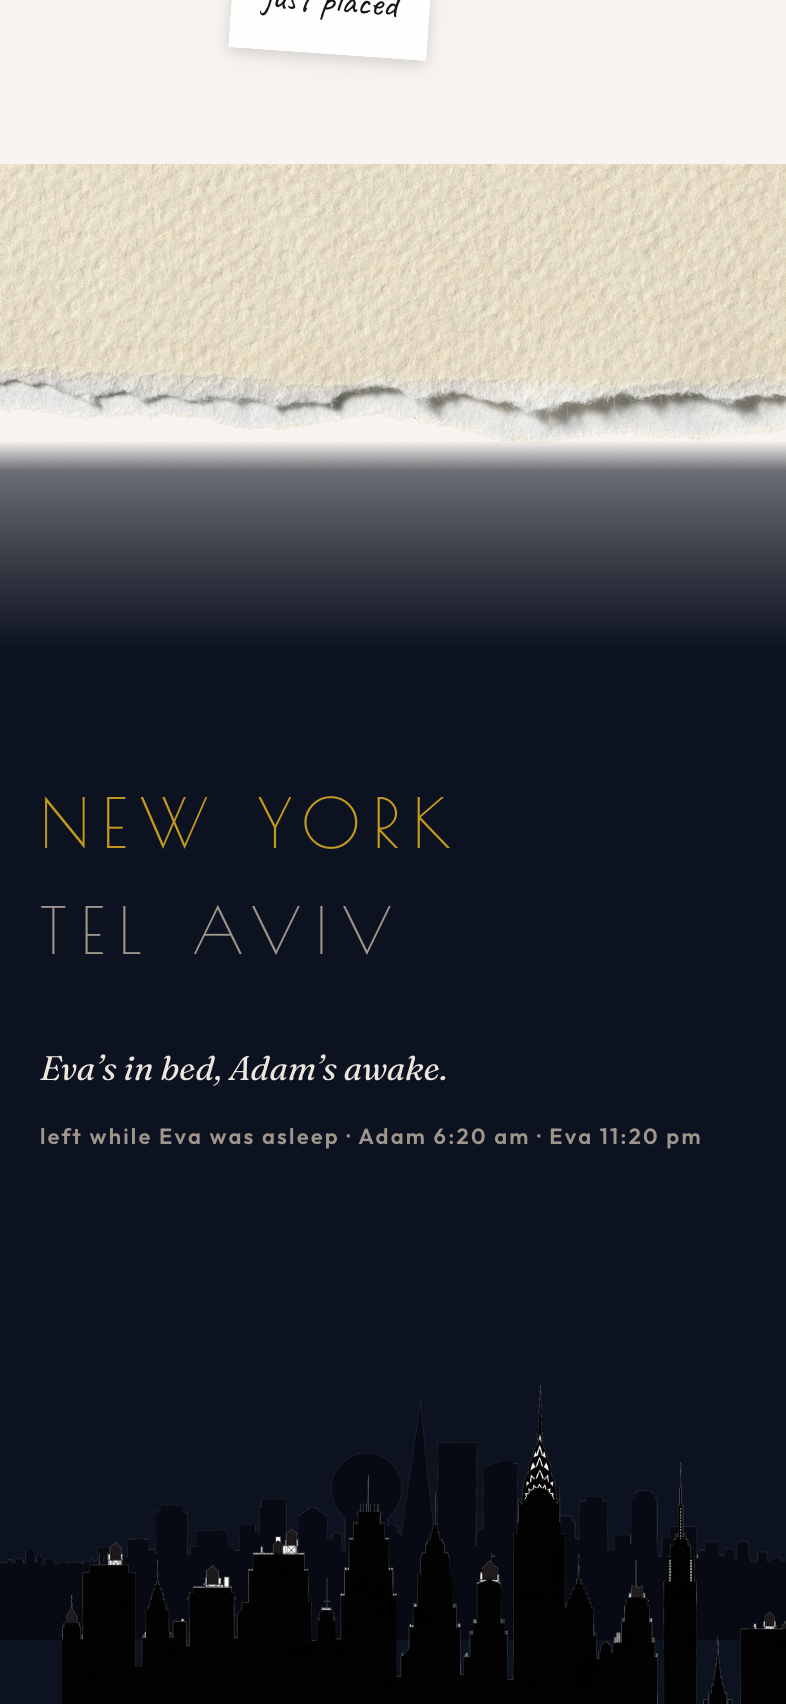
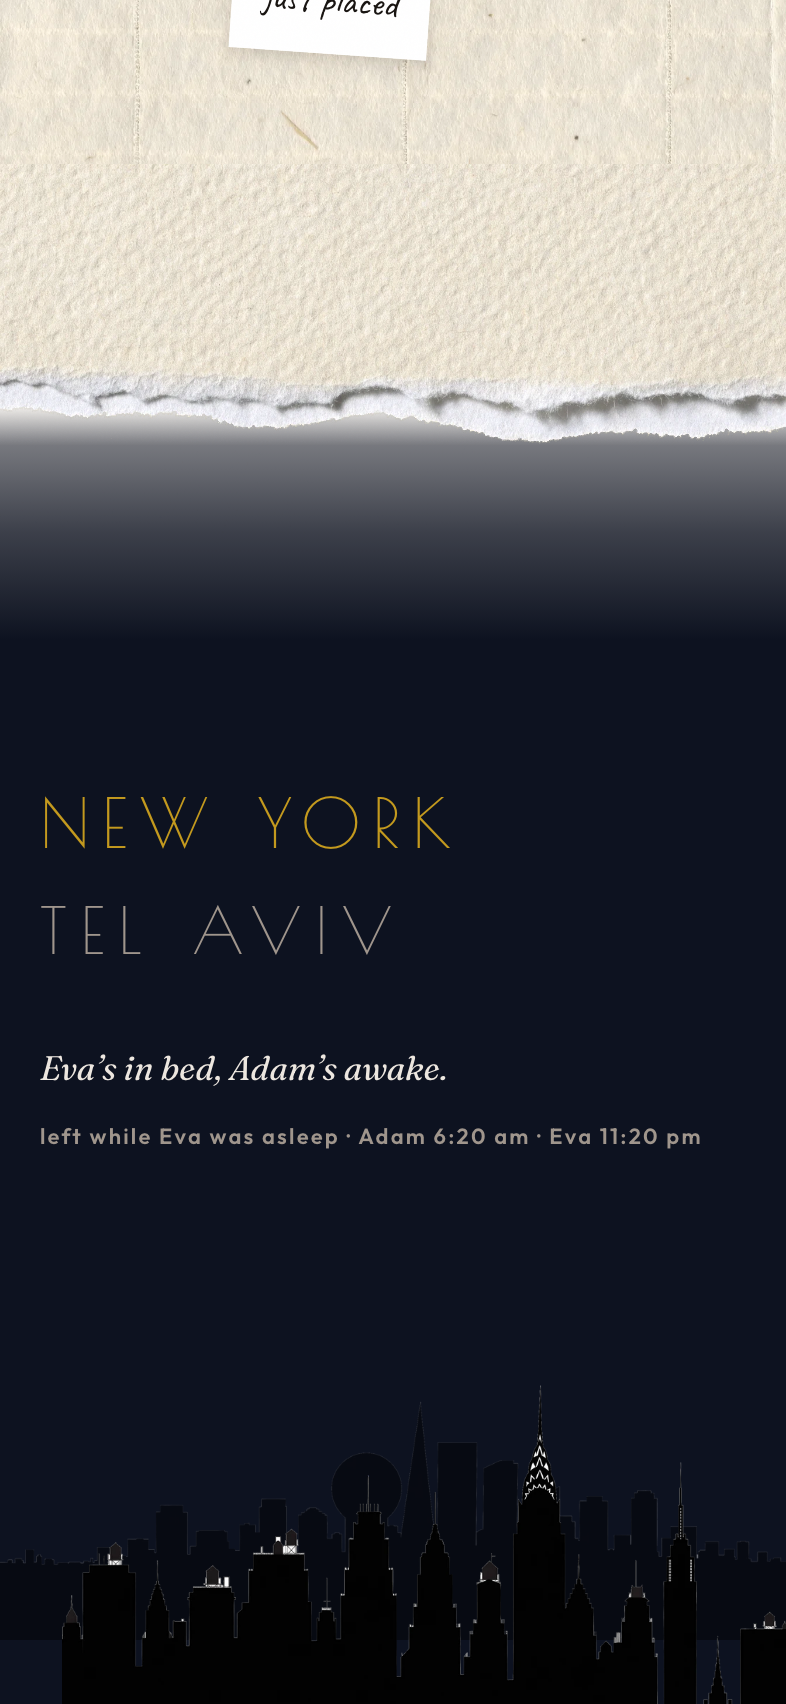
feat(materials): the table is a stock and the lamp dims the room
Two structural fixes per CEO ruling, both measured at the join in
the committed captures (band means/sd from the canonical PNGs):

Paper substrate. New <Paper> primitive renders a real stock —
paper-bone-laid as a 438 KB runtime webp (canonical PNG stays the
library source) at 134% scale so its grain density matches the tear
strip. The Seam's default strip is tone-graded to bone-laid's
measured mean (x1.025/1.028/1.069 per channel). An improvised
substrate tiled from the strip itself was tried and failed —
mirror-stacking a narrow band reads as herringbone weave; substrates
must be generated as stocks.

The lamp. --lamp-dim (0 day, 1 in both night blocks) drives
.under-lamp, one brightness+sepia curve carried by the substrate and
every material image — tape, pin, torn mount, seam strip, stickers —
so the table dims as one surface. 0.78, not token parity 0.87: full
parity is lights-off and the law's night is a reading room.
Photographs never carry it. Token surfaces and text keep the token
swap — .under-lamp on them would dim twice.

Join acceptance, measured (target: night step <15, sd delta ~1):
  day:   step 27.6 -> 0.6 · texture sd 6.69 vs 8.21 (delta 1.52)
  night: step  188 -> 0.1 · texture sd 1.61 vs 1.95 (delta 0.34)
Residual day sd delta is texture character (laid vs cold-press
tooth); the clean fix is a generated cold-press substrate stock.

Falloff retuned for the stock tone: darkness arrives at the tear
[…]

Changed region(s): [[0.0, 0.0, 1.0, 0.0933], [0.0, 0.2177, 1.0, 0.2799]]

diff --git a/apps/web/app/globals.css b/apps/web/app/globals.css
@@ -215,6 +215,22 @@
   --night-amber: #d4892a;
   --night-ink: #ede7e0;
   --night-mute: #a0968d;
+
+  /* --------------------------------------------------------
+     The lamp. CEO ruling 2026-08-04: the light in the room
+     dims, not the objects. Image materials (paper substrate,
+     tape, pins, torn edges, stickers) cannot respond to the
+     token swap the way a CSS colour can, so they dim through
+     `.under-lamp` (§6), driven by this single value: 0 = lamp
+     on (day); the night blocks set it to 1. One curve for
+     every material, so the table dims as one surface.
+
+     Photographs are the sole exception and are NEVER dimmed —
+     never give a photograph `.under-lamp`, per the standing
+     rule that at 11pm the brightest thing on the screen is
+     the other one's face.
+     -------------------------------------------------------- */
+  --lamp-dim: 0;
 }
 
 /* ------------------------------------------------------------
@@ -301,6 +317,9 @@
     0 8px 16px -4px rgba(0, 0, 0, 0.52), 0 20px 40px -8px rgba(0, 0, 0, 0.62);
 
   --noise-opacity: 0.028;
+
+  /* The lamp goes off — image materials dim via .under-lamp. */
+  --lamp-dim: 1;
 }
 
 @media (prefers-color-scheme: dark) {
@@ -323,6 +342,9 @@
     --e-float: 0 1px 2px rgba(0, 0, 0, 0.44),
       0 8px 16px -4px rgba(0, 0, 0, 0.52), 0 20px 40px -8px rgba(0, 0, 0, 0.62);
     --noise-opacity: 0.028;
+
+    /* The lamp goes off — image materials dim via .under-lamp. */
+    --lamp-dim: 1;
   }
 }
 
@@ -663,6 +685,32 @@ textarea[aria-invalid="true"] {
 @utility photo {
   filter: none;
   transition: filter var(--dur-2) var(--ease-out);
+}
+
+/* An image material sitting under the room's lamp — the paper
+   substrate, tape, pins, torn edges, stickers. CEO ruling
+   2026-08-04: the light in the room dims, not the objects. A
+   token flips at night but a webp cannot, so every material dims
+   through this one curve, driven by --lamp-dim, and the table
+   goes dark as one surface instead of a dark ground with day-lit
+   objects pasted on it. brightness is the lamp going off; the
+   small sepia keeps the darkness warm, matching the multiply
+   relationship between the day and night canvas tokens.
+
+   NEVER on a photograph — `.photo` above stays `filter: none`;
+   a photograph is the one thing on the table that keeps its own
+   light. And not on token-styled surfaces or text either: those
+   already dim through the night token swap, and .under-lamp on
+   top would dim them twice. */
+@utility under-lamp {
+  /* 0.78, not the 0.87 that would match the night canvas token
+     exactly: full token parity is "lights off" and the law's night
+     is a reading room — the lamp is low, not out. The materials sit
+     a step lighter than the page canvas, which is what a lit table
+     in a dark room does. */
+  filter: brightness(calc(1 - var(--lamp-dim) * 0.78))
+    sepia(calc(var(--lamp-dim) * 0.32));
+  transition: filter var(--dur-3) var(--ease-io);
 }
 
 /* ...except when nobody is looking.

diff --git a/apps/web/components/materials/Paper.tsx b/apps/web/components/materials/Paper.tsx
@@ -1,0 +1,75 @@
+import type { ReactNode } from "react";
+
+import { cn } from "@/lib/utils";
+
+/**
+ * The table itself — a real paper stock as substrate, not a colour.
+ *
+ * The law says paper stocks are assets; rendering `--canvas` as a
+ * flat fill is how the seam join became visible (a flat fill at
+ * texture sd 0.43 can never meet photographic paper at sd 7.69
+ * invisibly). Every surface that ends in a <Seam> sits on a Paper
+ * of the same stock, so texture and tone match by construction.
+ *
+ * THE LAMP. CEO ruling 2026-08-04: the light in the room dims, not
+ * the objects. The substrate carries `.under-lamp`, the same curve
+ * every image material uses, so at night the whole table darkens as
+ * one surface. Children are NOT blanket-dimmed from here: token
+ * surfaces and text dim through the night token swap already, and
+ * each material component applies .under-lamp to its own image.
+ * Photographs never dim — never give one .under-lamp.
+ *
+ * The Seam's default strip is tone-graded to bone-laid's measured
+ * mean, so the sheet that tears at the bottom of a bone-laid Paper
+ * is the same paper to the eye. (A substrate derived by tiling the
+ * strip itself was tried and failed: mirror-stacking a narrow band
+ * turns its diagonal grain into a herringbone weave. Substrates
+ * must be generated as stocks, not improvised from strips.)
+ */
+
+export type PaperStock = "bone-laid" | "bone";
+
+export interface PaperProps {
+  /**
+   * Which stock the table is made of. bone-laid pairs with the
+   * Seam's default (bone-graded coldpress tear).
+   * @default "bone-laid"
+   */
+  stock?: PaperStock;
+  children: ReactNode;
+  className?: string;
+}
+
+/**
+ * Full-bleed stocks. bone-laid ships as a runtime webp derived from
+ * the canonical PNG (438 KB vs 6.8 MB — the PNG stays the source of
+ * truth in the library); bone-v2 has no consumer yet and still
+ * points at its PNG.
+ */
+const STOCKS: Record<PaperStock, string> = {
+  "bone-laid": "/materials/paper-bone-laid.webp",
+  bone: "/materials/paper-bone-v2.png",
+};
+
+export function Paper({ stock = "bone-laid", children, className }: PaperProps) {
+  return (
+    <div className={cn("relative", className)} style={{ isolation: "isolate" }}>
+      {/* The stock, dimming with the room's lamp. 134%, not 100%:
+          the bone-laid source is 1792px wide against the seam
+          strip's 1344, so at equal display width the substrate's
+          grain renders 25% finer than the tear it ends in — the
+          density mismatch was measurable at the join (texture sd
+          5.5 vs 8.2). Scaling the stock to the strip's pixel scale
+          closes it. Painted before children — no z games. */}
+      <div
+        aria-hidden="true"
+        className="under-lamp absolute inset-0"
+        style={{
+          backgroundImage: `url(${STOCKS[stock]})`,
+          backgroundSize: "134% auto",
+        }}
+      />
+      <div className="relative">{children}</div>
+    </div>
+  );
+}

diff --git a/apps/web/app/dev/materials/page.tsx b/apps/web/app/dev/materials/page.tsx
@@ -3,7 +3,7 @@
    their alpha, and none of these are content photographs. */
 import type { Metadata } from "next";
 
-import { Mounted, Pinned, Seam, Taped, Torn } from "@/components/materials";
+import { Mounted, Paper, Pinned, Seam, Taped, Torn } from "@/components/materials";
 
 /**
  * Materials bench — Wave 0 verification surface, not a product screen.
@@ -26,8 +26,10 @@ export const metadata: Metadata = {
 export default function MaterialsBench() {
   return (
     <main className="mx-auto max-w-[430px]">
-      {/* ---------------- PAPER — the table ---------------- */}
-      <section className="px-5 pb-14 pt-8">
+      {/* ---------------- PAPER — the table ----------------
+          A real stock as substrate (same coldpress as the Seam, so
+          the join cannot exist), dimming with the lamp at night. */}
+      <Paper stock="bone-laid" className="px-5 pb-14 pt-8">
         <p className="type-micro text-mute">materials bench · wave 0</p>
 
         {/* The two hands. Caveat flows; Patrick Hand stands. */}
@@ -69,7 +71,7 @@ export default function MaterialsBench() {
               <img
                 src="/materials/sticker-ticket-cinema.webp"
                 alt=""
-                className="block w-full"
+                className="under-lamp block w-full"
               />
             </Taped>
           </Taped>
@@ -78,13 +80,13 @@ export default function MaterialsBench() {
         {/* The sticker mass. Sunflower first — Eva's motif, always. */}
         <div className="mt-14 flex items-end gap-6">
           <Mounted id="bench-sticker-sunflower" context="sticker" elevation={1}>
-            <img src="/materials/sticker-sunflower-pressed-v3.webp" alt="" className="w-[120px]" />
+            <img src="/materials/sticker-sunflower-pressed-v3.webp" alt="" className="under-lamp w-[120px]" />
           </Mounted>
           <Mounted id="bench-sticker-rose" context="sticker" elevation={1}>
-            <img src="/materials/sticker-rose-red-pressed.webp" alt="" className="w-[84px]" />
+            <img src="/materials/sticker-rose-red-pressed.webp" alt="" className="under-lamp w-[84px]" />
           </Mounted>
           <Mounted id="bench-sticker-star" context="sticker" elevation={1}>
-            <img src="/materials/sticker-star-gold-foil.webp" alt="" className="w-[56px]" />
+            <img src="/materials/sticker-star-gold-foil.webp" alt="" className="under-lamp w-[56px]" />
           </Mounted>
         </div>
 
@@ -100,7 +102,7 @@ export default function MaterialsBench() {
             <p className="font-eva text-[19px] text-ink">just placed</p>
           </div>
         </Mounted>
-      </section>
+      </Paper>
 
       {/* ---------------- the Seam — no mode check, ever ---------------- */}
       <Seam />

diff --git a/apps/web/components/materials/Seam.tsx b/apps/web/components/materials/Seam.tsx
@@ -57,9 +57,16 @@ export interface SeamProps {
   className?: string;
 }
 
-/** Natural dimensions ride along so the browser derives the aspect. */
+/**
+ * Natural dimensions ride along so the browser derives the aspect.
+ * The coldpress strip is the -graded derivative: its sheet tone is
+ * matched to paper-bone-laid's measured mean (mechanical per-channel
+ * gain, ×1.025/1.028/1.069), so the sheet tearing at the bottom of a
+ * bone-laid <Paper> reads as the same paper. The ungraded original
+ * stays in the library.
+ */
 const FIBRE: Record<SeamVariant, { src: string; width: number; height: number }> = {
-  coldpress: { src: "/materials/seam-tear-coldpress.webp", width: 1344, height: 497 },
+  coldpress: { src: "/materials/seam-tear-coldpress-graded.webp", width: 1344, height: 497 },
   bone: { src: "/materials/seam-tear-bone.webp", width: 1344, height: 507 },
 };
 
@@ -82,7 +89,7 @@ const FIBRE: Record<SeamVariant, { src: string; width: number; height: number }>
  * on the torn lip. Straight-to-dark read as a mask in every capture.
  */
 const FALLOFF =
-  "linear-gradient(to bottom, rgb(13 18 32 / 0) 0%, rgb(13 18 32 / 0) 54%, rgb(13 18 32 / 0.6) 60%, rgb(13 18 32 / 0.8) 76%, var(--night-sky) 95%)";
+  "linear-gradient(to bottom, rgb(13 18 32 / 0) 0%, rgb(13 18 32 / 0) 47%, rgb(13 18 32 / 0.55) 55%, rgb(13 18 32 / 0.8) 72%, var(--night-sky) 93%)";
 
 export function Seam({ variant = "coldpress", height = 256, className }: SeamProps) {
   const fibre = FIBRE[variant];
@@ -99,7 +106,11 @@ export function Seam({ variant = "coldpress", height = 256, className }: SeamPro
           greys out its midpoint. */}
       <div className="absolute inset-0" style={{ background: FALLOFF }} />
 
-      {/* The torn sheet itself, flush against the paper above. */}
+      {/* The torn sheet itself, flush against the paper above. It
+          carries .under-lamp so at night it dims with the substrate
+          it continues — same asset, same curve, so the join stays
+          invisible in the dark too. The falloff behind it is the
+          outside and never dims. */}
       {/* eslint-disable-next-line @next/next/no-img-element -- keyed
           material composite; the image optimizer adds nothing to a
           small webp and must never re-encode its alpha. */}
@@ -108,7 +119,7 @@ export function Seam({ variant = "coldpress", height = 256, className }: SeamPro
         alt=""
         width={fibre.width}
         height={fibre.height}
-        className="absolute inset-x-0 top-0 h-auto w-full"
+        className="under-lamp absolute inset-x-0 top-0 h-auto w-full"
       />
     </div>
   );

diff --git a/apps/web/components/materials/Pinned.tsx b/apps/web/components/materials/Pinned.tsx
@@ -83,7 +83,13 @@ export function Pinned({ variant, placement, children, className }: PinnedProps)
             /* A pin pierces everything it holds — above tape (50). */
             zIndex: 60,
             pointerEvents: "none",
-            filter: "drop-shadow(0 2px 2px rgba(41, 32, 24, 0.3))",
+            /* drop-shadow grounds the pin; the brightness/sepia pair
+               is `.under-lamp`'s curve inlined — an inline filter
+               would override the class, so the lamp rides along here.
+               Keep in sync with @utility under-lamp in globals.css. */
+            filter:
+              "drop-shadow(0 2px 2px rgba(41, 32, 24, 0.3)) brightness(calc(1 - var(--lamp-dim, 0) * 0.78)) sepia(calc(var(--lamp-dim, 0) * 0.32))",
+            transition: "filter var(--dur-3) var(--ease-io)",
             ...PIN_X[placement],
           }}
         />

diff --git a/apps/web/components/materials/Torn.tsx b/apps/web/components/materials/Torn.tsx
@@ -55,6 +55,8 @@ export function Torn({ variant, children, className }: TornProps) {
           src={src}
           alt=""
           aria-hidden="true"
+          /* A backing sheet is a material — it dims with the lamp. */
+          className="under-lamp"
           style={{
             position: "absolute",
             top: -OVERHANG_CLEAN,

diff --git a/apps/web/components/materials/index.ts b/apps/web/components/materials/index.ts
@@ -11,6 +11,9 @@
  *   Seam → where the paper tears into the DECO sky — both modes,
  *          always; place, not time (revised §1)
  */
+export { Paper } from "./Paper";
+export type { PaperProps, PaperStock } from "./Paper";
+
 export { Mounted } from "./Mounted";
 export type { MountedProps, MountedContext } from "./Mounted";
 

diff --git a/apps/web/components/materials/Taped.tsx b/apps/web/components/materials/Taped.tsx
@@ -118,6 +118,8 @@ export function Taped({
           aria-hidden="true"
           width={asset.width}
           height={asset.height}
+          /* Tape is a material on the table — it dims with the lamp. */
+          className="under-lamp"
           style={{
             position: "absolute",
             left: pos.left,
